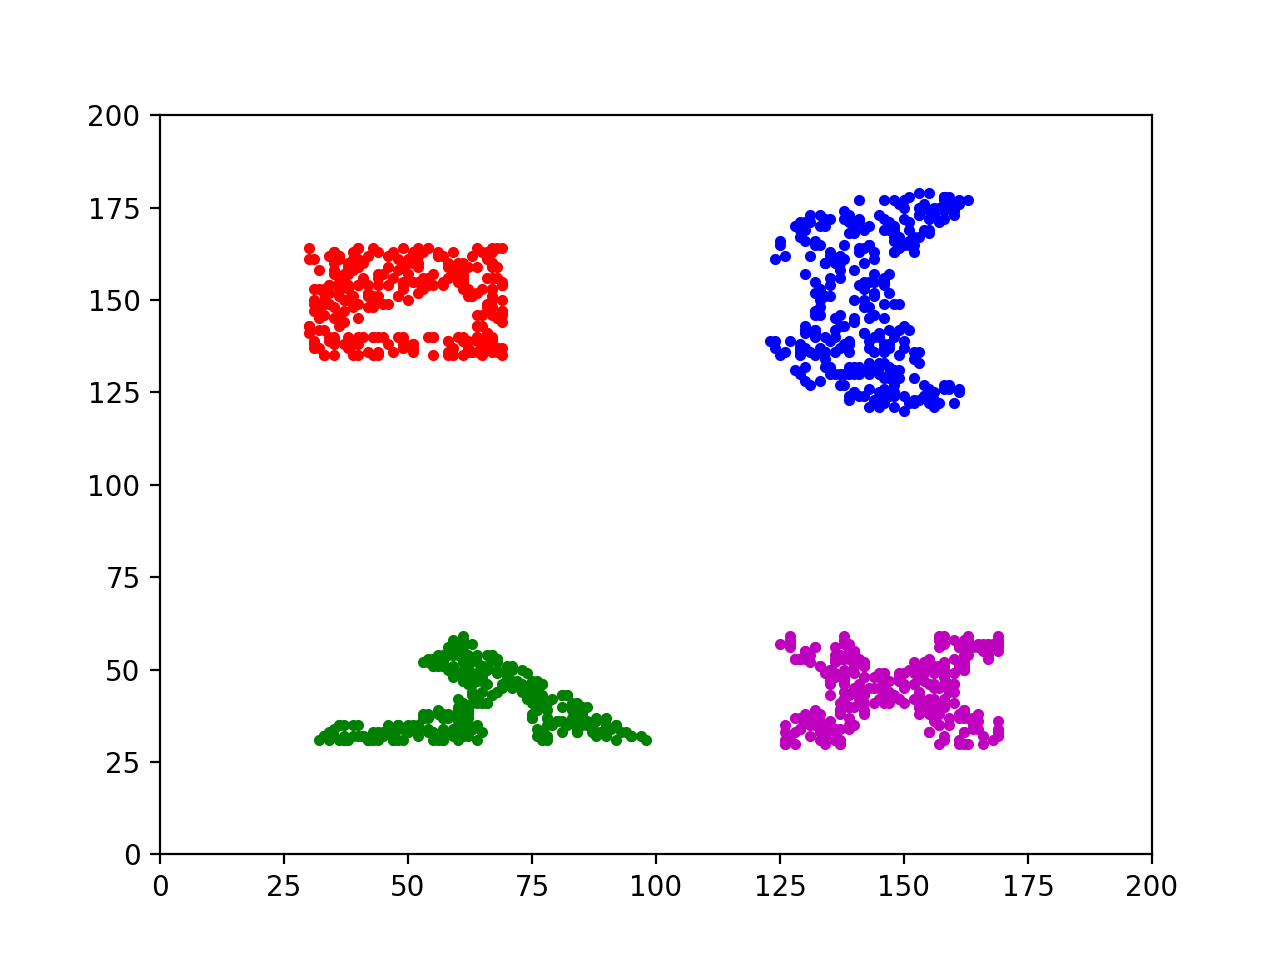
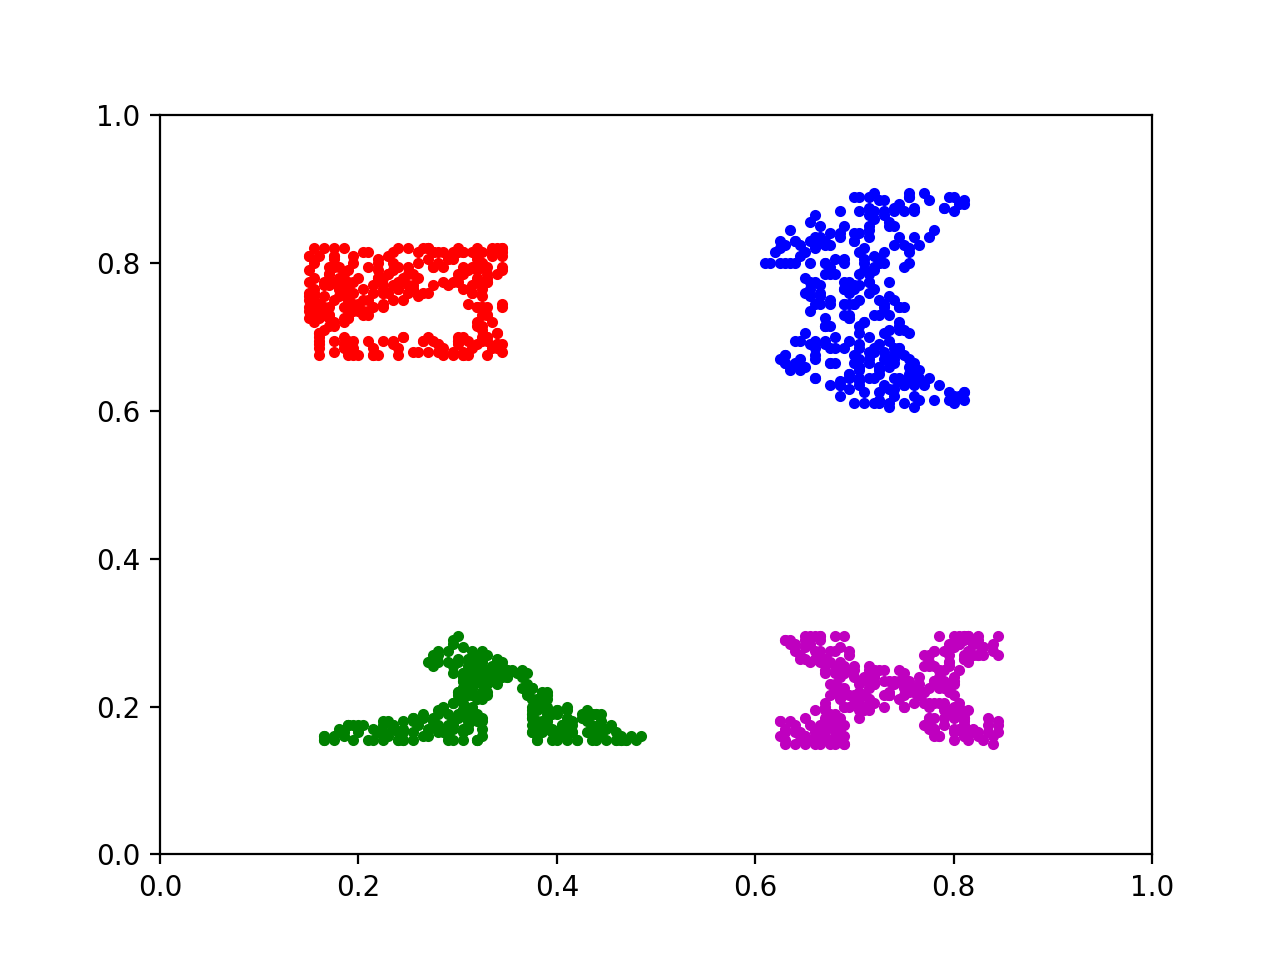
functions normalized

diff --git a/FirstLab/Programms/D_DivIntoNClasses.py b/FirstLab/Programms/D_DivIntoNClasses.py
@@ -50,6 +50,9 @@ if __name__ == '__main__':
         xCoor.append(x)
         yCoor.append(y)
 
+    # normalize
+    xCoor = list(map(lambda x: x / 200, xCoor))
+    yCoor = list(map(lambda y: y / 200, yCoor))
     plt.plot(xCoor, yCoor, '.r')
 
     xCoor.clear()
@@ -67,6 +70,9 @@ if __name__ == '__main__':
         xCoor.append(x)
         yCoor.append(y)
 
+    # normalize
+    xCoor = list(map(lambda x: x / 200, xCoor))
+    yCoor = list(map(lambda y: y / 200, yCoor))
     plt.plot(xCoor, yCoor, '.b')
 
     xCoor.clear()
@@ -84,6 +90,9 @@ if __name__ == '__main__':
         xCoor.append(x)
         yCoor.append(y)
 
+    # normalize
+    xCoor = list(map(lambda x: x / 200, xCoor))
+    yCoor = list(map(lambda y: y / 200, yCoor))
     plt.plot(xCoor, yCoor, '.g')
 
     xCoor.clear()
@@ -103,10 +112,13 @@ if __name__ == '__main__':
         xCoor.append(x)
         yCoor.append(y)
 
+    # normalize
+    xCoor = list(map(lambda x: x / 200, xCoor))
+    yCoor = list(map(lambda y: y / 200, yCoor))
     plt.plot(xCoor, yCoor, '.m', )
 
-    plt.xlim(0, 200)
-    plt.ylim(0, 200)
+    plt.xlim(0, 1)
+    plt.ylim(0, 1)
 
     SHOW = input('SHOW? [Y/n]')
     SAVE = input('SAVE? [Y/n]')

diff --git a/FirstLab/Programms/A_CrossZero.py b/FirstLab/Programms/A_CrossZero.py
@@ -58,15 +58,15 @@ if __name__ == '__main__':
         elements = np.random.randint(minEl, maxEl + 1, size=(ySize, xSize))
         print('----------------------------------')
     # elements = np.array([[1,1,0,0],[1,1,0,0],[1,1,0,0],[1,1,0,0]])
-    plt.xlim(0, xSize)
-    plt.ylim(0, ySize)
+    plt.xlim(0, 1)
+    plt.ylim(0, 1)
 
     for x in range(0, xSize):
         for y in range(0, ySize):
             if elements[y][x] == 1:
-                plt.gca().add_patch(patch.Rectangle((x, ySize - y - 1), 1, 1, color='#000000', fill=True))
+                plt.gca().add_patch(patch.Rectangle((x/4, (ySize - y - 1)/4), 0.25, 0.25, color='#000000', fill=True))
             else:
-                plt.gca().add_patch(patch.Rectangle((x, ySize - y - 1), 1, 1, color='#FFFFFF', fill=True))
+                plt.gca().add_patch(patch.Rectangle((x/4, (ySize - y - 1)/4), 0.25, 0.25, color='#FFFFFF', fill=True))
 
     SHOW = input('SHOW? [Y/n]')
     SAVE = input('SAVE? [Y/n]')

diff --git a/FirstLab/Programms/E_Function.py b/FirstLab/Programms/E_Function.py
@@ -1,27 +1,24 @@
 import matplotlib.pyplot as plt
 import math as m
 
+import numpy as np
+
 
 def function(x):
-    return x / 10 % 4 + m.sin(x) * m.fabs(maxX - x) / maxX
+    x = x * 100
+    return 0.25 + x / 200 + 0.25 * m.sin(2 / 3 * x * m.sin(x / 50 + 3 * m.pi / 2))
 
 
 if __name__ == '__main__':
-    maxX = 80
-    xArray = []
+    xArray = np.arange(0.0, 1.0, 0.001, dtype=float)
     yArray = []
 
-    for x in range(0, maxX):
-        xArray.append(x)
+    for x in xArray:
         yArray.append(function(x))
-        x += 1
-
     plt.plot(xArray, yArray)
     plt.plot(xArray, yArray, color='mediumvioletred')
-    plt.ylim(-2, 10)
+    plt.ylim(0, 1)
 
-    # SHOW = 'Y'
-    # SAVE = 'N'
     SHOW = input('SHOW? [Y/n]')
     SAVE = input('SAVE?[Y/n]')
     if SAVE == 'Y':

diff --git a/FirstLab/Programms/С_DivIntoTwoClasses.py b/FirstLab/Programms/С_DivIntoTwoClasses.py
@@ -71,16 +71,15 @@ if __name__ == '__main__':
         xCoor.append(x)
         yCoor.append(y)
 
-    plt.xlim(0, 200)
-    plt.ylim(0, 200)
+    xCoor = list(map(lambda x: x / 200, xCoor))
+    yCoor = list(map(lambda y: y / 200, yCoor))
+    plt.xlim(0, 1)
+    plt.ylim(0, 1)
 
     plt.plot(xCoor, yCoor, '.')
 
-
-
     SHOW = input('SHOW? [Y/n]')
     SAVE = input('SAVE? [Y/n]')
-
 
     if SAVE == 'Y':
         plt.savefig("../Pictures/3_DivIntoTwoClasses.png", dpi=200)
